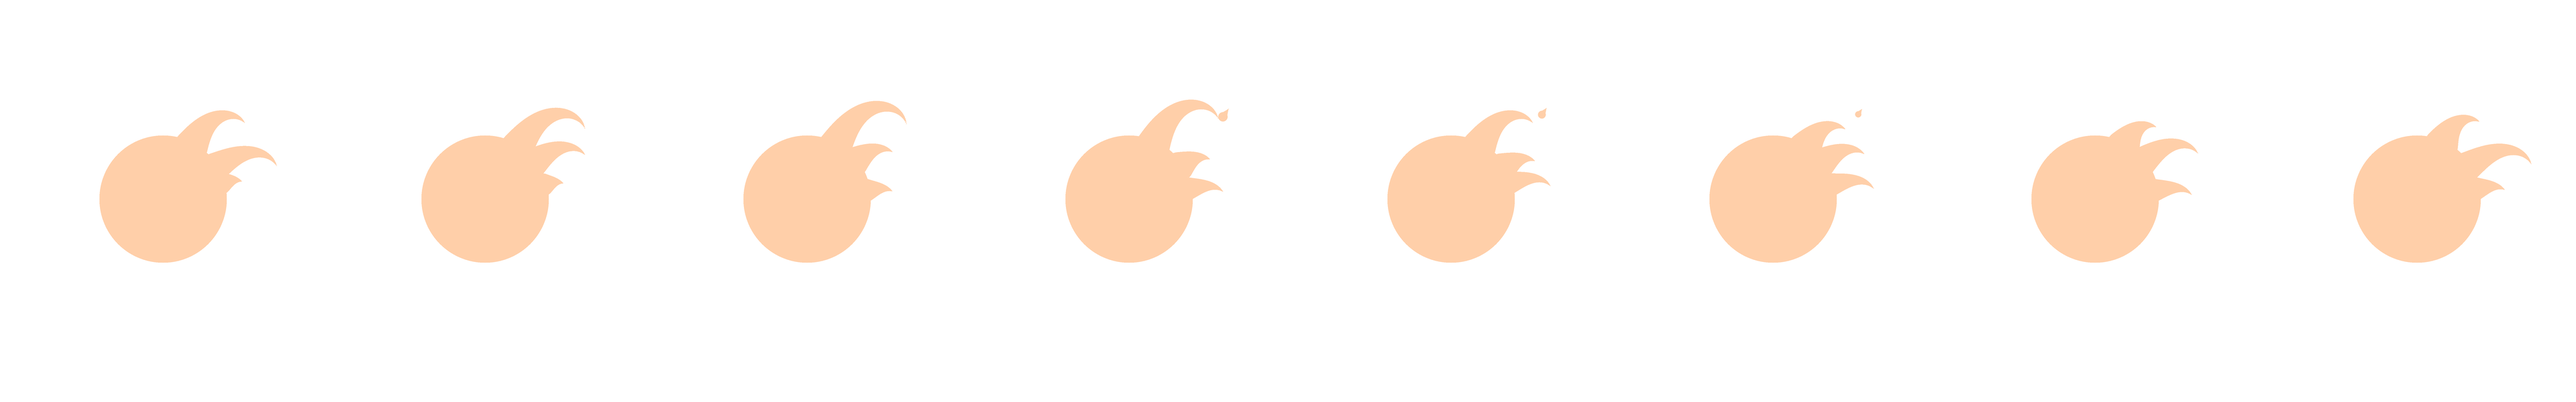
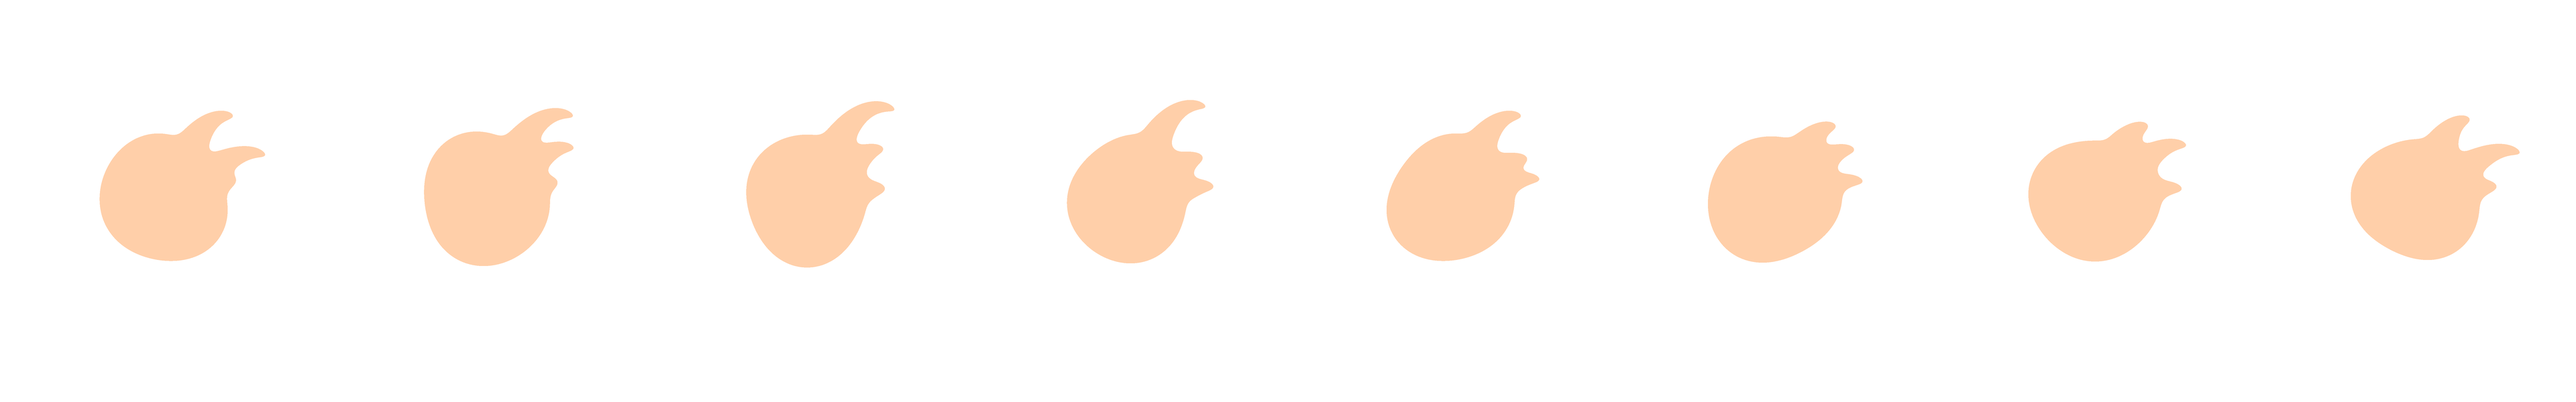
シンプル：ゴーゴーの炎の角を丸める・判定まわりの玉も動かす
- 形をぼかして切り直して、とがった角・炎と玉のつなぎ目を丸くした（たけらい「かくかくしすぎ」）
- 玉のふちがゆらゆら波打って、コマごとに少しずつ形が変わるようにした（「判定まわりの円、動きないじゃん」）
- 小さい火の粉は丸めたときに消えるので、出なくなった

Claude-Session: https://claude.ai/code/session_01DAU9tpBiF8CGAJXqk8DqYG

diff --git a/tools/skin-gen/gogo_fire.py b/tools/skin-gen/gogo_fire.py
@@ -47,13 +47,18 @@ def blob_mask(X, Y, x, y, r, angle):
 def frame(f):
     """11/5 たけらい「火の粉が多くて気が散る。A-Style 参考にして」→ A-Style の GoGoSoul.png のつくりを参考に作り直した
        （A-Style：丸い玉の右上から、くるっと巻いた炎が2〜4本。コマごとに長さと巻き方が変わる。火の粉はときどき1つだけ）
-       シンプル：玉（半径95）＋右上に巻いた炎3本（コマごとに伸び縮み）＋火の粉はコマ 3〜5 の間に1つだけ。うすいオレンジのべた塗り"""
+       シンプル：玉（半径95。ふちがゆらゆら波打つ）＋右上に巻いた炎3本（コマごとに伸び縮み）。うすいオレンジのべた塗り。
+       最後に形をぼかして切り直して、角を丸くする（このとき小さい火の粉は消えるので、火の粉は実際には出ない）"""
     S = SS
     ys, xs = np.mgrid[0:H * S, 0:W * S]
     X = xs / S
     Y = ys / S
     t = f / N * 2 * math.pi
-    m = (X - CX) ** 2 + (Y - CY) ** 2 <= 95 ** 2
+    # 玉：ふちがゆらゆら波打って、ゆっくり形が変わる(11/5「判定まわりの円、動きないじゃん」)
+    dx, dy = X - CX, Y - CY
+    theta = np.arctan2(dy, dx)
+    ball_r = 95 + 4.5 * np.sin(2 * theta - t) + 3.0 * np.sin(3 * theta + 2 * t) + 2.0 * math.sin(t * 2)
+    m = dx * dx + dy * dy <= ball_r ** 2
 
     def stroke(points, widths):
         nonlocal m
@@ -87,6 +92,9 @@ def frame(f):
         u = (f - 3) / 3
         x, y = tips[0]
         m |= blob_mask(X, Y, x + 18 * u + 6, y - 26 * u - 6, 7 * (1 - 0.5 * u), math.radians(-55))
+    # 角を丸める(11/5「かくかくしすぎ」)：形をぼかしてから半分で切り直す → とがった角・つなぎ目が丸くなる
+    soft = Image.fromarray((m * 255).astype(np.uint8)).filter(ImageFilter.GaussianBlur(7 * S))
+    m = np.array(soft) >= 128
     rgba = np.zeros((H * S, W * S, 4), dtype=np.uint8)
     rgba[m] = (255, 146, 60, 112)
     return Image.fromarray(rgba, 'RGBA').resize((W, H), Image.LANCZOS)

diff --git a/AGENTS.md b/AGENTS.md
@@ -506,8 +506,9 @@ Measured by overlaying images on frames of the 九段 video (03-04-03 at 20 s, 2
   - Body x165–297 in (255,80,0). Height: 20 at x171–184 (waist) → 42 at 244–256 (max) → 0 at 297
   - A-Style has eyes and a mouth; **Simple has no face** (shape only)
 - Simple's go-go fire (11/5; the ember-stream version was too busy, so it follows A-Style's structure): A-Style's GoGoSoul is a round ball with 2–4 curly
-  tongues on the upper right that change length per frame, plus at most one ember now and then. Simple: ball radius 95, three curly tongues
-  (−62°/−35°/−12°) that stretch and shrink, one ember only in frames 3–5, flat light orange (255,146,60, α112). `frame()` in `tools/skin-gen/gogo_fire.py`
+  tongues on the upper right that change length per frame, plus at most one ember now and then. Simple: ball radius 95 with a wobbling edge, three curly tongues
+  (−62°/−35°/−12°) that stretch and shrink, flat light orange (255,146,60, α112). The whole shape is blurred (7 px) and re-thresholded at 50%
+  to round the corners (that also removes the tiny ember). `frame()` in `tools/skin-gen/gogo_fire.py`
 - Go-go fire (`Lane/GoGoSoul.png`, 480×600 per frame × 8): fireball center (243,297) placed on the judge circle at **0.9×**, additive blend.
   At start uses OpenTaiko's scale curve (0.8→2.5→…→1.0). 0.05 s per frame. **Draw after the soul gauge** (so it isn't hidden)
 - Combo sparkles (`MiniTaiko/Effect.png`): **from 50 combo; the stars are always pure white** (silver/gold applies to the digits).
